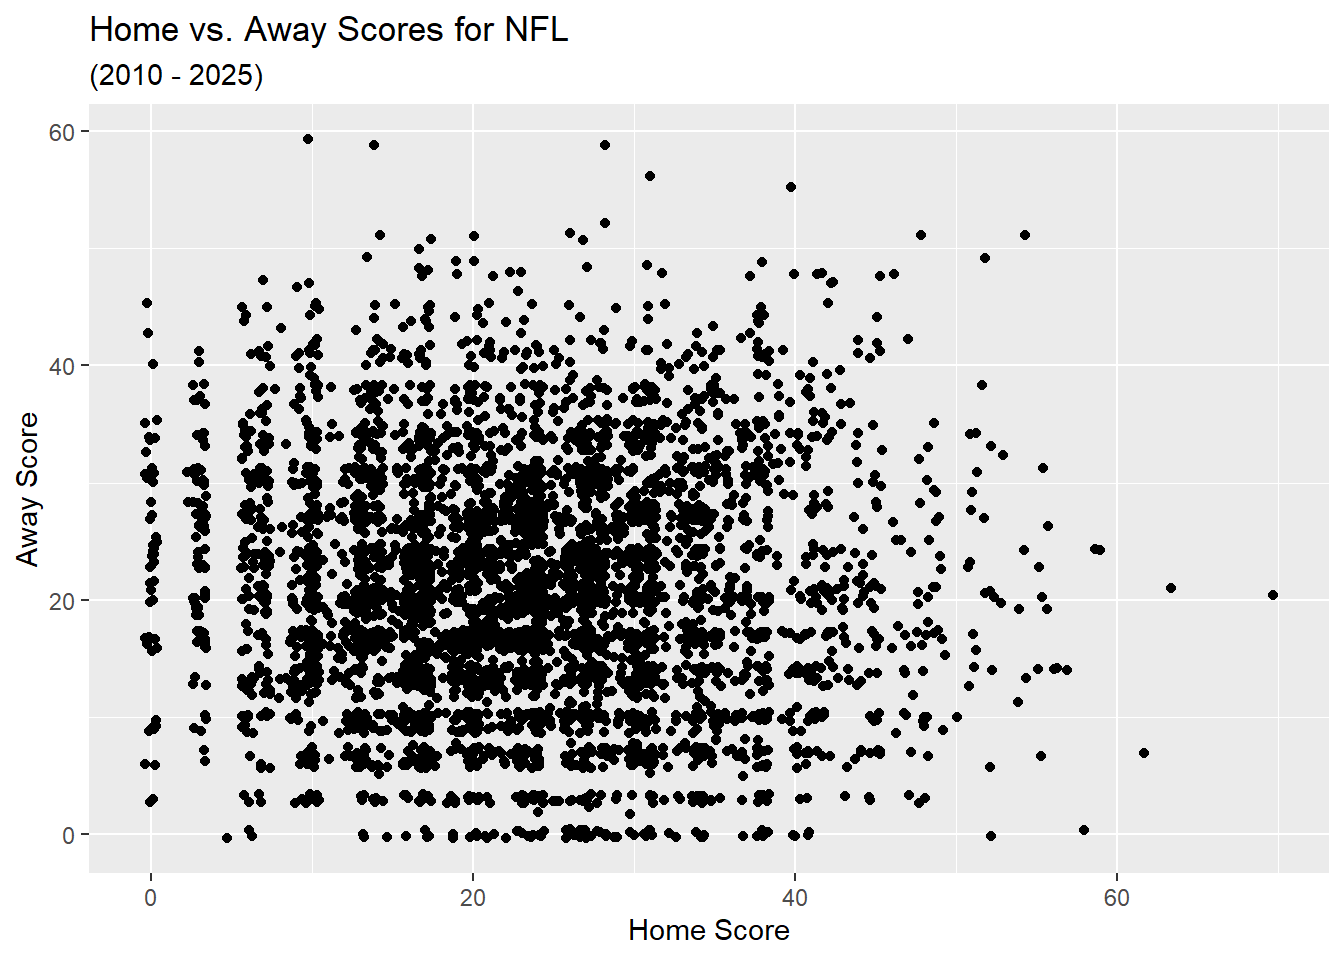
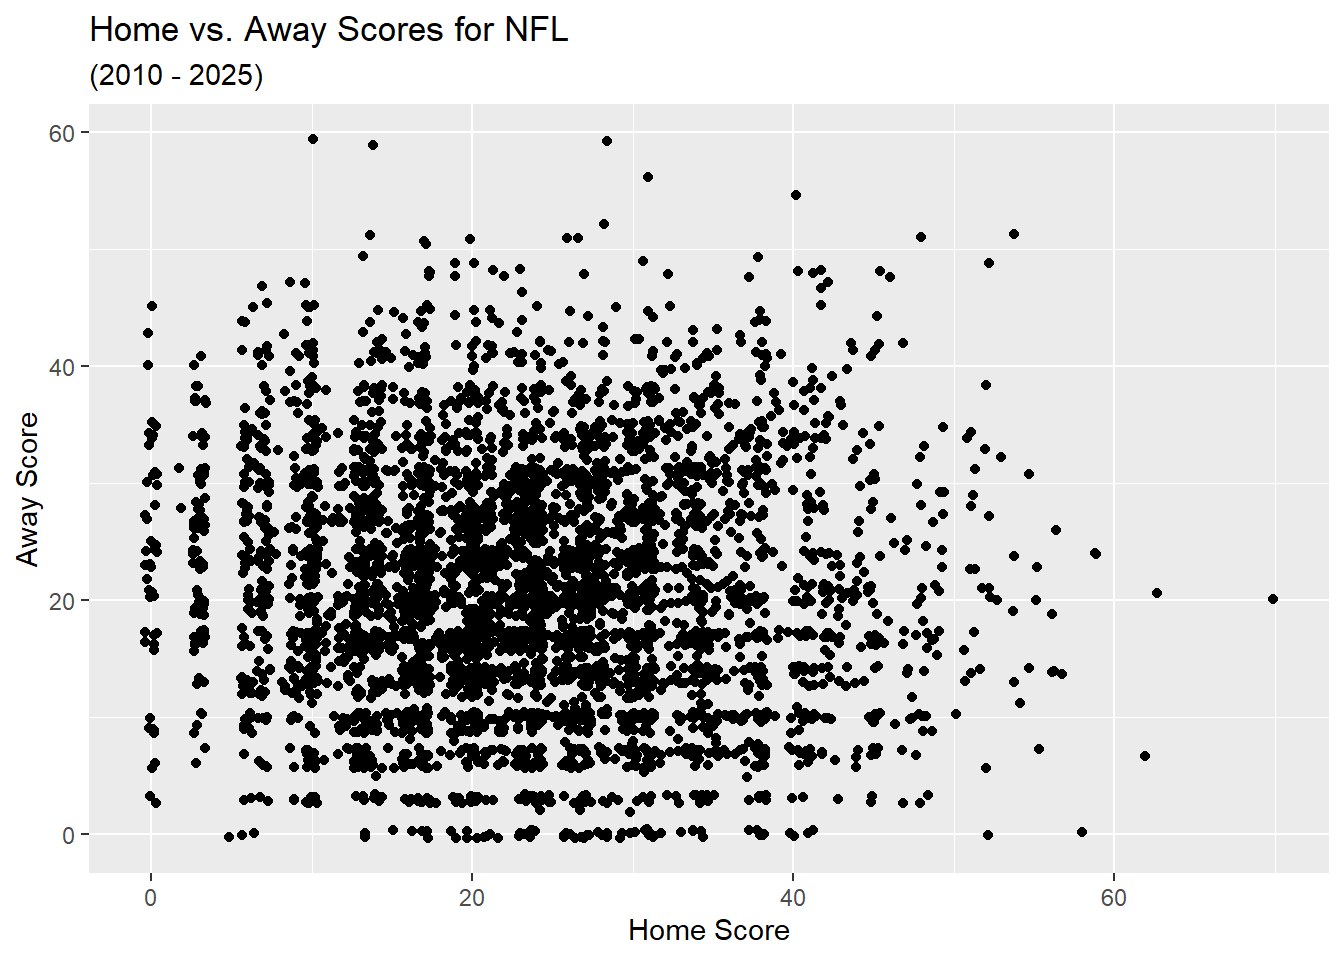
Final commit after uploading to shinyapps.io.

diff --git a/proj_2.html b/proj_2.html
@@ -161,7 +161,7 @@ window.Quarto = {
 <h1>Data Import and Cleaning</h1>
 <p>First we import the data, remove all rows containing missing values (which makes the <code>GameStatus</code> column redundant, as all scores were listed as <code>FINAL</code> or <code>NA</code>, so we will delete it). We will be analyzing scores by teams, so records where the home or away team are listed as <code>TBD</code> will also be expunged.</p>
 <div class="cell">
-<div class="code-copy-outer-scaffold"><div class="sourceCode cell-code" id="cb4"><pre class="sourceCode r code-with-copy"><code class="sourceCode r"><span id="cb4-1"><a href="#cb4-1" aria-hidden="true" tabindex="-1"></a>football <span class="ot">&lt;-</span> <span class="fu">read_csv</span>(<span class="st">"data/2010-2025_scores.csv"</span>,</span>
+<div class="code-copy-outer-scaffold"><div class="sourceCode cell-code" id="cb4"><pre class="sourceCode r code-with-copy"><code class="sourceCode r"><span id="cb4-1"><a href="#cb4-1" aria-hidden="true" tabindex="-1"></a>football <span class="ot">&lt;-</span> <span class="fu">read_csv</span>(<span class="st">"footballApp/data/2010-2025_scores.csv"</span>,</span>
 <span id="cb4-2"><a href="#cb4-2" aria-hidden="true" tabindex="-1"></a>                     <span class="at">show_col_types =</span> <span class="cn">FALSE</span>)</span>
 <span id="cb4-3"><a href="#cb4-3" aria-hidden="true" tabindex="-1"></a>football <span class="ot">&lt;-</span> <span class="fu">drop_na</span>(football)</span>
 <span id="cb4-4"><a href="#cb4-4" aria-hidden="true" tabindex="-1"></a>football <span class="ot">&lt;-</span> football <span class="sc">|&gt;</span> <span class="fu">select</span>(<span class="sc">-</span>GameStatus)</span>